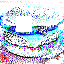
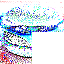
SD-Repaint

diff --git a/sd2.py b/sd2.py
@@ -5,8 +5,11 @@ import numpy as np
 import torchvision.io as io
 
 mask = (torch.ones((3, 512, 512)) * 255).type(torch.uint8)
-mask[:, 128:256, 128:256] = 0
+# mask[:, 128:256, 128:256] = 0
+# mask[: :, 256:] = 0
+mask[: , 256:, 256:] = 0
 io.write_png(mask, "mask.png")
+# exit()
 
 import cv2
 import numpy as np
@@ -62,7 +65,11 @@ from transformers import CLIPTextModel, CLIPTokenizer
 from diffusers import AutoencoderKL, UNet2DConditionModel, PNDMScheduler
 
 # 1. Load the autoencoder model which will be used to decode the latents into image space. 
-vae = AutoencoderKL.from_pretrained("CompVis/stable-diffusion-v1-4", subfolder="vae")
+
+model = "runwayml/stable-diffusion-inpainting"
+model = "runwayml/stable-diffusion-v1-5"
+# model = "CompVis/stable-diffusion-v1-4"
+vae = AutoencoderKL.from_pretrained(model, subfolder="vae")
 
 
 # 2. Load the tokenizer and text encoder to tokenize and encode the text. 
@@ -70,7 +77,7 @@ tokenizer = CLIPTokenizer.from_pretrained("openai/clip-vit-large-patch14")
 text_encoder = CLIPTextModel.from_pretrained("openai/clip-vit-large-patch14")
 
 # 3. The UNet model for generating the latents.
-unet = UNet2DConditionModel.from_pretrained("CompVis/stable-diffusion-v1-4", subfolder="unet")
+unet = UNet2DConditionModel.from_pretrained(model, subfolder="unet")
 
 # from diffusers import LMSDiscreteScheduler
 
@@ -96,10 +103,12 @@ print(mask_img_full_encoded.shape)
 print(mask_img_encoded.shape)
 
 mask_img_encoded = torch.ones_like(mask_img_full_encoded)
-mask_img_encoded[:, :, 16:32, 16:32] = 0
+# mask_img_encoded[:, :, 16:32, 16:32] = 0
+mask_img_encoded[:, :, 32:, 32:] = 0
 
 print(mask_img_encoded)
 
+cv2.imwrite("masked_img_encoded-full.png", masked_img_encoded[0].cpu().permute(1, 2, 0).numpy() * 255)
 masked_img_encoded = masked_img_encoded * mask_img_encoded
 
 cv2.imwrite("masked_img_encoded.png", mask_img_full_encoded[0].cpu().permute(1, 2, 0).numpy() * 255)
@@ -111,16 +120,25 @@ cv2.imwrite("masked_img_encoded-2.png", masked_img_encoded[0].cpu().permute(1, 2
 
 # exit()
 
-prompt = ["small ants"]
+# prompt = ["burger with ant in it"]
+# prompt = ["burger half eaten"]
+# prompt= ["ants"]
+# prompt= ["ants"]
+
+prompt = ['bite in burger']
+
+
+# prompt = ["best burger ever"]
+# prompt = ["big eggs"]
 
 height = 512                        # default height of Stable Diffusion
 width = 512                         # default width of Stable Diffusion
 
-num_inference_steps = 100           # Number of denoising steps
+num_inference_steps = 25#25#100           # Number of denoising steps
 
 guidance_scale = 7.5                # Scale for classifier-free guidance
 
-generator = torch.manual_seed(0)    # Seed generator to create the inital latent noise
+generator = torch.manual_seed(10)    # Seed generator to create the inital latent noise
 
 batch_size = len(prompt)
 
@@ -148,12 +166,13 @@ from csch import get_schedule
 timesteps = get_schedule(num_inference_steps, scheduler)
 # print(timesteps)
 # exit()
-last_timestep = 1000
+last_timestep = torch.tensor(999).to(torch_device)
 for t in tqdm(timesteps):
 # for t in tqdm(scheduler.timesteps):
     noise = torch.randn_like(masked_img_encoded, device=torch_device)
     if t < last_timestep:
         noisy_target = scheduler.add_noise(masked_img_encoded, noise, t)
+        # latents = noisy_target * mask_img_encoded + latents * (1 - mask_img_encoded)
 
         # expand the latents if we are doing classifier-free guidance to avoid doing two forward passes.
         latent_model_input = torch.cat([latents] * 2)
@@ -166,6 +185,10 @@ for t in tqdm(timesteps):
 
         # perform guidance
         noise_pred_uncond, noise_pred_text = noise_pred.chunk(2)
+
+        # noisy_target_2 = scheduler.add_noise(masked_img_encoded, noise, last_timestep)
+        # noise_pred_uncond = noisy_target_2 * mask_img_encoded + noise_pred_uncond * (1 - mask_img_encoded)
+
         noise_pred = noise_pred_uncond + guidance_scale * (noise_pred_text - noise_pred_uncond)
         # noisy_target = noisy_target + guidance_scale * (noise_pred_text - noisy_target)
 
@@ -174,7 +197,9 @@ for t in tqdm(timesteps):
         # print(latents.shape)
         #
         # masked_img_encoded = masked_img_encoded * mask_img_encoded
+
         latents = noisy_target * mask_img_encoded + latents * (1 - mask_img_encoded)
+
     else:            # input = scheduler.add_noise(input, noise, t)
         alpha_prod_t = scheduler.alphas_cumprod[t]
         alpha_prod_t_prev = scheduler.alphas_cumprod[last_timestep] if last_timestep >= 0 else scheduler.one

diff --git a/sd3.py b/sd3.py
@@ -1,0 +1,33 @@
+import PIL
+import requests
+import torch
+from io import BytesIO
+
+from diffusers import StableDiffusionInpaintPipeline
+
+
+def download_image(url):
+    response = requests.get(url)
+    return PIL.Image.open(BytesIO(response.content)).convert("RGB")
+
+
+img_url = "https://raw.githubusercontent.com/CompVis/latent-diffusion/main/data/inpainting_examples/overture-creations-5sI6fQgYIuo.png"
+mask_url = "https://raw.githubusercontent.com/CompVis/latent-diffusion/main/data/inpainting_examples/overture-creations-5sI6fQgYIuo_mask.png"
+
+init_image = download_image(img_url).resize((512, 512))
+mask_image = download_image(mask_url).resize((512, 512))
+
+orig_img = "hamburger2.png"
+mask_img = "mask.png"
+
+init_image = PIL.Image.open(orig_img).convert("RGB").resize((512, 512))
+mask_image = PIL.Image.open(mask_img).convert("RGB").resize((512, 512))
+
+pipe = StableDiffusionInpaintPipeline.from_pretrained(
+    "runwayml/stable-diffusion-inpainting", torch_dtype=torch.float16
+)
+pipe = pipe.to("cuda")
+
+prompt = "juicy burger"
+image = pipe(prompt=prompt, image=init_image, mask_image=mask_image, strength=0.1, classifier_guidance=7.5).images[0]
+image.save("output.png")

diff --git a/csch.py b/csch.py
@@ -84,7 +84,9 @@ def get_schedule_jump(t_T, n_sample, jump_length, jump_n_sample,
     return ts
 
 def get_schedule(num_steps, scheduler):
-    ts = get_schedule_jump(num_steps, 1, 1, 1, 1, 1, 1, 1, 100000000)[:-1]
+    # ts = get_schedule_jump(num_steps, 1, 1, 1, 1, 1, 1, 1, 100000000)[:-1]
+
+    ts = get_schedule_jump(num_steps, 1, 10, 10, 1, 1, 1, 1, 100000000)[:-1]
     ts = (np.array(ts)*scheduler.config.num_train_timesteps/num_steps).astype(int)
     print(ts)
     np.savetxt("ts.txt", scheduler.alphas_cumprod, fmt="%f")
